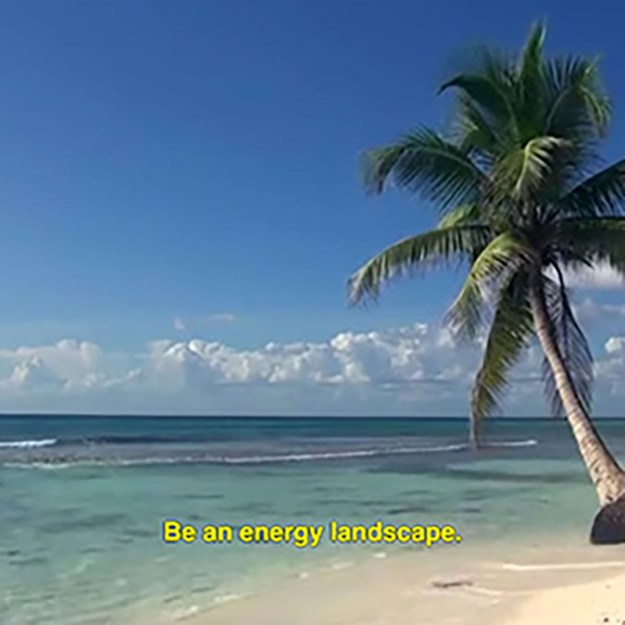
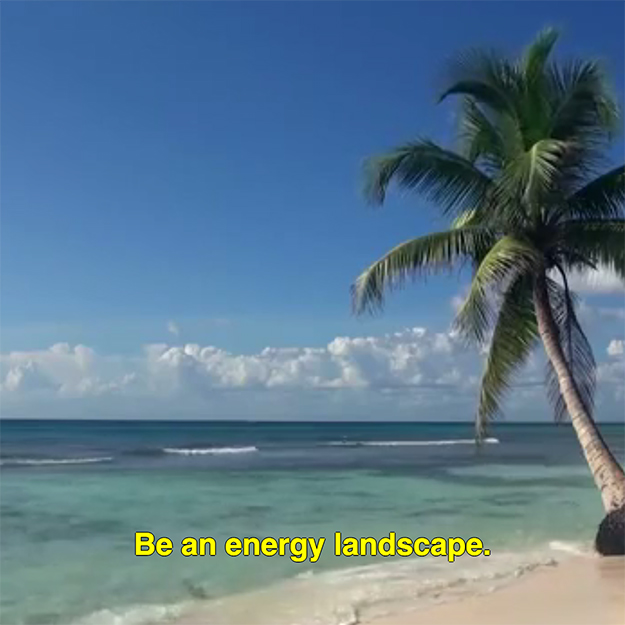
work life tips is 2x.

diff --git a/_projects/2015-02-01-work-life-tips.md b/_projects/2015-02-01-work-life-tips.md
@@ -9,6 +9,6 @@ description: "Visit <a title='work-life.tips' href='http://www.work-life.tips'>w
 
 {% for num in (1...4) %}
 <div>
-    <img class="mb3" src="{{ page.image_path }}{{ num }}.jpg" />
+    <img class="mb3" src="{{ page.image_path }}{{ num }}.jpg" srcset="{{ page.image_path }}{{ num }}.jpg 1x, {{ page.image_path }}{{ num }}-2x.jpg 2x"/>
 </div>
 {% endfor %}
